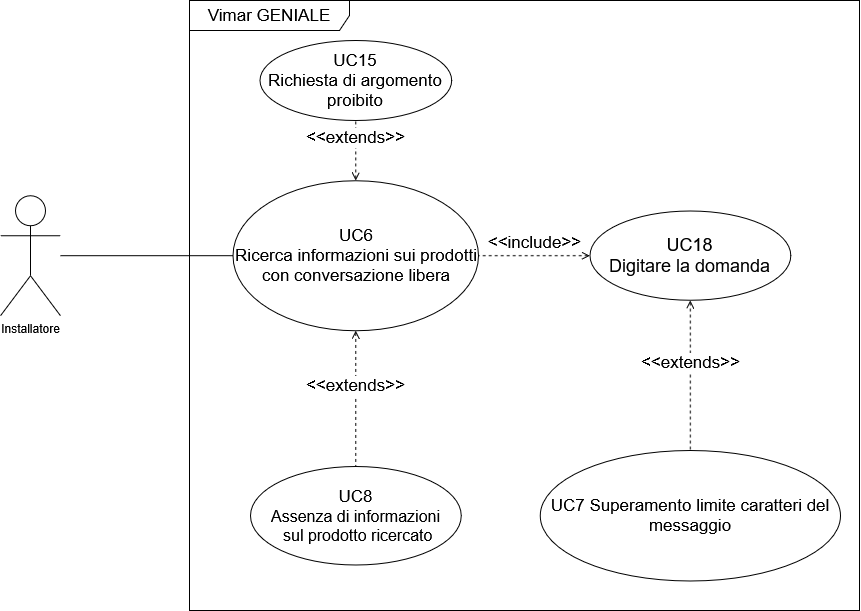
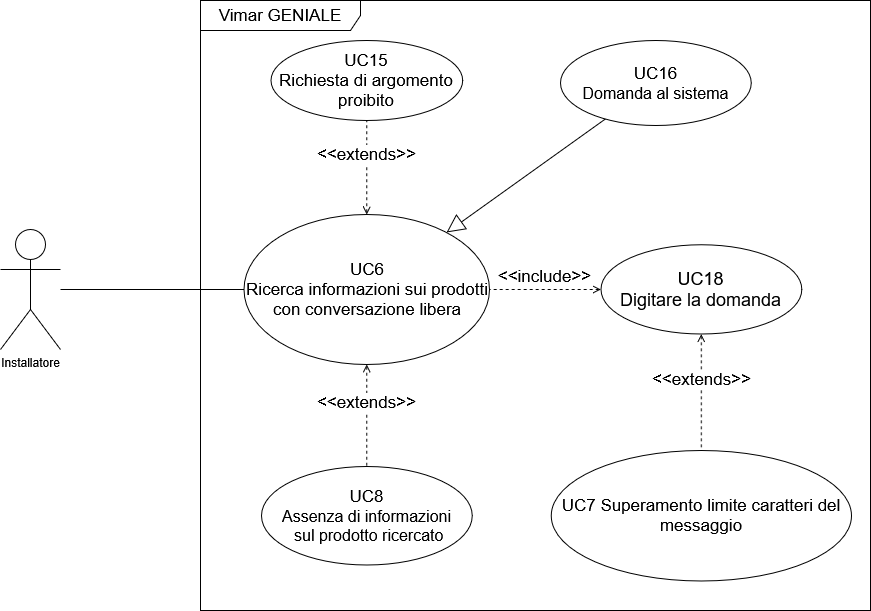
Aggiornata AdR

diff --git a/src/2 - RTB/Analisi_dei_Requisiti/contents/requisiti/requisiti_di_funzionalita.tex b/src/2 - RTB/Analisi_dei_Requisiti/contents/requisiti/requisiti_di_funzionalita.tex
@@ -4,9 +4,9 @@
         \hline
         \textbf{ID requisito} & \textbf{Descrizione} & \textbf{Importanza} & \textbf{Fonti}  \\
         \hline
-        RF.O.001 & Il \textit{sistema}\textsubscript{G} deve permettere all'installatore di effettuare ricerche testuali e ricevere informazioni dettagliate sui prodotti \textit{Vimar}\textsubscript{G}. & Obbligatorio & Capitolato \\
+        RF.O.001 & Il \textit{sistema}\textsubscript{G} deve permettere all'installatore di effettuare ricerche testuali e ricevere informazioni dettagliate sui prodotti \textit{Vimar}\textsubscript{G}. & Obbligatorio & UC6, UC16 \\
         \hline
-        RF.O.002 & Il \textit{sistema}\textsubscript{G} deve prevedere un \textit{sistema}\textsubscript{G} di autenticazione tramite \textit{password}\textsubscript{G} per l'accesso alla \textit{dashboard}\textsubscript{G} per amministratori. & Obbligatorio & UC12 \\
+        RF.O.002 & Il \textit{sistema}\textsubscript{G} deve prevedere l'autenticazione tramite \textit{password}\textsubscript{G} per l'accesso alla \textit{dashboard}\textsubscript{G} per amministratori. & Obbligatorio & UC12 \\
         \hline
         RF.O.003 & Il \textit{cruscotto informativo}\textsubscript{G} deve includere una sezione per la visualizzazione di statistiche di utilizzo. & Obbligatorio & UC14 \\
         \hline
@@ -17,7 +17,7 @@
 \centering
     \begin{tabular}{|C{2.7cm}|L{7.2cm}|C{2.7cm}|C{2cm}|}
         \hline
-        RF.O.004 & Il \textit{sistema}\textsubscript{G} deve permettere agli utenti di fornire un \textit{feedback}\textsubscript{G} positivo o negativo dopo ogni risposta ricevuta. & Obbligatorio & UC14 \\
+        RF.O.004 & Il \textit{sistema}\textsubscript{G} deve permettere agli utenti di fornire un \textit{feedback}\textsubscript{G} positivo o negativo dopo ogni risposta ricevuta. & Obbligatorio & UC11 \\
         \hline
         RF.O.005 & Il \textit{sistema}\textsubscript{G} deve essere in grado di identificare e bloccare le richieste che riguardano argomenti non pertinenti \textit{AI}\textsubscript{G} prodotti \textit{VIMAR}\textsubscript{G}. & Obbligatorio & UC15 \\
         \hline
@@ -26,31 +26,28 @@
         RF.P.007 & Il \textit{sistema}\textsubscript{G} deve fornire un'interfaccia con menu e sottomenù per costruire richieste specifiche in conversazioni guidate. & Opzionale & Capitolato\\
         \hline
         RF.D.008 & Il componente di interrogazione deve prevedere un controllo sull’\textit{output}\textsubscript{G}
-        per verificare che il contenuto non vada in conflitto con argomenti proibiti. & Desiderabile & Capitolato \\
+        per verificare che il contenuto non vada in conflitto con argomenti proibiti. & Desiderabile & UC15 \\
         \hline
-        RF.O.009 & L’utente deve poter fare richieste testuali limitate a un certo numero di caratteri. & Obbligatorio & Capitolato \\
+        RF.O.009 & L’utente deve poter fare richieste testuali limitate a un certo numero di caratteri. & Obbligatorio & UC7 \\
         \hline
         RF.O.010 & L’utente deve poter visualizzare uno storico dei messaggi nella stessa
-        conversazione. & Obbligatorio & Capitolato \\
+        conversazione. & Obbligatorio & UC9 \\
         \hline
         RF.D.011 & L’utente può fare richieste in più lingue.
          & Desiderabile & Capitolato \\
          \hline
-         RF.O.012 & Le conversazioni avute possono essere salvate al termine della \textit{sessione}\textsubscript{G}. & Obbligatorio & Capitolato \\
+         RF.O.012 & Le conversazioni avute possono essere salvate al termine della \textit{sessione}\textsubscript{G}. & Obbligatorio & UC3 \\
         \hline
-        RF.O.013 & Le conversazioni devono poter essere cancellate. & Obbligatorio & Capitolato \\
+        RF.O.013 & Le conversazioni devono poter essere cancellate. & Obbligatorio & UC5 \\
         \hline
         RF.O.014 & Ogni utente dovrà avere un limite massimo di conversazioni.
-         & Obbligatorio & Capitolato \\
+         & Obbligatorio & UC2 \\
         \hline
         RF.P.015 & L'\textit{amministratore}\textsubscript{G} deve poter visualizzare nel \textit{cruscotto informativo}\textsubscript{G} il numero totale di richieste effettuate con \textit{conversazione libera}\textsubscript{G} o guidata.
-         & Opzionale & Capitolato \\
+         & Opzionale & UC14.1, UC14.2 \\
         \hline
-        RF.P.016 & L'\textit{amministratore}\textsubscript{G} deve poter visualizzare nel \textit{cruscotto informativo}\textsubscript{G} le statistiche sul numero di termini usati nelle richieste.
-         & Opzionale & Capitolato \\
-        \hline
-        RF.P.017 & L'\textit{amministratore}\textsubscript{G} deve poter visualizzare nel \textit{cruscotto informativo}\textsubscript{G} le statistiche sulle parole più usate nelle richieste.
-         & Opzionale & Capitolato \\
+        RF.P.016 & L'\textit{amministratore}\textsubscript{G} deve poter visualizzare nel \textit{cruscotto informativo}\textsubscript{G} la classifica sul numero di termini usati maggiormente nelle richieste.
+         & Opzionale & UC14.3 \\
         \hline
     \end{tabular}
     \caption{Requisiti di funzionalità  (2\textsuperscript{a} parte)}
@@ -59,42 +56,42 @@
 \centering
     \begin{tabular}{|C{2.7cm}|L{7.2cm}|C{2.7cm}|C{2cm}|}
         \hline
-        RF.P.018 & L'\textit{amministratore}\textsubscript{G} deve poter visualizzare nel \textit{cruscotto informativo}\textsubscript{G} il grafico con l'andamento giornaliero dell’utilizzo dell’applicativo.
+        RF.P.017 & L'\textit{amministratore}\textsubscript{G} deve poter visualizzare nel \textit{cruscotto informativo}\textsubscript{G} il grafico con l'andamento giornaliero dell’utilizzo dell’applicativo.
          & Opzionale & Capitolato \\
         \hline
-        RF.D.019 & L'\textit{amministratore}\textsubscript{G} deve poter visualizzare nel \textit{cruscotto informativo}\textsubscript{G} il numero di risposte positive o negative ricevute dal \textit{sistema}\textsubscript{G} di \textit{feedback}\textsubscript{G}.
-         & Desiderabile & Capitolato \\
+        RF.D.018 & L'\textit{amministratore}\textsubscript{G} deve poter visualizzare nel \textit{cruscotto informativo}\textsubscript{G} il numero di risposte positive o negative ricevute dal \textit{sistema}\textsubscript{G} di \textit{feedback}\textsubscript{G}.
+         & Desiderabile & UC14.4, UC14.5 \\
         \hline
-        RF.O.020 &  L’applicativo deve prevedere un \textit{sistema}\textsubscript{G} di estrazione e raccolta delle informazioni dal sito web dell'azienda.
+        RF.O.019 &  L’applicativo deve prevedere un \textit{sistema}\textsubscript{G} di estrazione e raccolta delle informazioni dal sito web dell'azienda.
          & Obbligatorio & Capitolato \\
         \hline
-         RF.O.021 & Il \textit{sistema}\textsubscript{G} deve essere in grado di navigare un elenco di prodotti, estrarre le informazioni utili e immagazzinare le informazioni correlandole in modo opportuno.
+         RF.O.020 & Il \textit{sistema}\textsubscript{G} deve essere in grado di navigare un elenco di prodotti, estrarre le informazioni utili e immagazzinare le informazioni correlandole in modo opportuno.
          & Obbligatorio & Capitolato \\
         \hline
-         RF.D.022 & L'utente deve poter scaricare i file di istruzioni dei prodotti in formato PDF.
-         & Desiderabile & Capitolato \\
+         RF.D.021 & L'utente deve poter scaricare i file di istruzioni dei prodotti in formato PDF.
+         & Desiderabile & UC17 \\
         \hline
-         RF.O.023 & Il \textit{sistema}\textsubscript{G} deve essere in grado di ricavare le informazioni utili dai PDF ed estrarre le immagini degli schemi elettrici.
+         RF.O.022 & Il \textit{sistema}\textsubscript{G} deve essere in grado di ricavare le informazioni utili dai PDF ed estrarre le immagini degli schemi elettrici.
+         & Obbligatorio & UC17 \\
+        \hline
+         RF.O.023 & Il \textit{sistema}\textsubscript{G} deve impiegare un \textit{database}\textsubscript{G} per collezionare le informazioni relative ai prodotti.
+         & Obbligatorio & UC16 \\
+        \hline
+         RF.O.024 & Il \textit{sistema}\textsubscript{G} di estrazione e raccolta deve essere realizzato sotto-forma di \textit{pipeline}\textsubscript{G} e automatizzato.
          & Obbligatorio & Capitolato \\
         \hline
-         RF.O.024 & Il \textit{sistema}\textsubscript{G} deve impiegare un \textit{database}\textsubscript{G} per collezionare le informazioni relative \textit{AI}\textsubscript{G} prodotti.
-         & Obbligatorio & Capitolato \\
-        \hline
-         RF.O.025 & Il \textit{sistema}\textsubscript{G} di estrazione e raccolta deve essere realizzato sotto-forma di \textit{pipeline}\textsubscript{G} e automatizzato.
-         & Obbligatorio & Capitolato \\
-        \hline
-         RF.O.026 & L’applicativo deve prevedere un \textit{sistema}\textsubscript{G} di indicizzazione delle informazioni a partire dal
+         RF.O.025 & L’applicativo deve prevedere un \textit{sistema}\textsubscript{G} di indicizzazione delle informazioni a partire dal
         \textit{database}\textsubscript{G} in cui sono stati salvati i dati precedentemente estratti dal sito web.
          & Obbligatorio & Capitolato \\
         \hline
-        RF.O.027 & Il componente di interrogazione deve fornire in \textit{output}\textsubscript{G} la risposta del modello \textit{AI}\textsubscript{G} (\textit{LLM}\textsubscript{G}).
-         & Obbligatorio & Capitolato \\
+        RF.O.026 & Il componente di interrogazione deve fornire in \textit{output}\textsubscript{G} la risposta del modello \textit{AI}\textsubscript{G} (\textit{LLM}\textsubscript{G}).
+         & Obbligatorio & UC6, UC16 \\
         \hline
-        RF.O.028 & Il modello \textit{AI}\textsubscript{G} (\textit{LLM}\textsubscript{G}) deve essere in grado di rispondere a domande sui prodotti appartenenti agli impianti Smart.
-         & Obbligatorio & Capitolato \\
+        RF.O.027 & Il modello \textit{AI}\textsubscript{G} (\textit{LLM}\textsubscript{G}) deve essere in grado di rispondere a domande sui prodotti appartenenti agli impianti Smart.
+         & Obbligatorio & UC6, UC16 \\
         \hline
-        RF.O.029 & Il modello \textit{AI}\textsubscript{G} (\textit{LLM}\textsubscript{G}) deve essere in grado di rispondere a domande sui prodotti appartenenti agli impianti Domotici.
-         & Obbligatorio & Capitolato \\
+        RF.O.028 & Il modello \textit{AI}\textsubscript{G} (\textit{LLM}\textsubscript{G}) deve essere in grado di rispondere a domande sui prodotti appartenenti agli impianti Domotici.
+         & Obbligatorio & UC6, UC16 \\
         \hline
     \end{tabular}
     \caption{Requisiti di funzionalità (3\textsuperscript{a}  parte)}
@@ -103,55 +100,57 @@
 \centering
     \begin{tabular}{|C{2.7cm}|L{7.2cm}|C{2.7cm}|C{2cm}|}
         \hline
-        RF.D.030 & Il modello \textit{AI}\textsubscript{G} (\textit{LLM}\textsubscript{G}) deve essere in grado di rispondere a domande sui prodotti appartenenti agli impianti Tradizionali.
+        RF.D.029 & Il modello \textit{AI}\textsubscript{G} (\textit{LLM}\textsubscript{G}) deve essere in grado di rispondere a domande sui prodotti appartenenti agli impianti Tradizionali.
+         & Desiderabile & UC6, UC16 \\
+        \hline
+        RF.D.030 & L’utente deve poter visualizzare il numero della pagina del documento relativo alla risposta.
          & Desiderabile & Capitolato \\
         \hline
-        RF.D.031 & L’utente deve poter visualizzare il numero della pagina del documento relativo alla risposta.
-         & Desiderabile & Capitolato \\
-        \hline
-        RF.D.032 & L’utente deve poter visualizzare il nome del documento relativo alla
+        RF.D.031 & L’utente deve poter visualizzare il nome del documento relativo alla
         risposta.
          & Desiderabile & Capitolato \\
         \hline
-        RF.O.033 & L’utente deve poter confermare l'eliminazione di una conversazione con il \textit{chatbot}\textsubscript{G}.
-         & Obbligatorio & Interno \\
+        RF.O.032 & L’utente deve poter confermare l'eliminazione di una conversazione con il \textit{chatbot}\textsubscript{G}.
+         & Obbligatorio & UC5 \\
         \hline
-        RF.O.034 & L’utente deve poter visualizzare una lista delle
+        RF.O.033 & L’utente deve poter visualizzare una lista delle
         sessioni di conversazione attive col \textit{chatbot}\textsubscript{G}.
-         & Obbligatorio & Interno \\
+         & Obbligatorio & UC1 \\
         \hline
-        RF.O.035 & L’utente deve poter creare una nuova \textit{sessione}\textsubscript{G} di conversazione col \textit{chatbot}\textsubscript{G}.
-         & Obbligatorio & Interno \\
+        RF.O.034 & L’utente deve poter creare una nuova \textit{sessione}\textsubscript{G} di conversazione col \textit{chatbot}\textsubscript{G}.
+         & Obbligatorio & UC1 \\
         \hline
-        RF.O.036 & L’utente deve ricevere una risposta di cortesia quando pone una domanda relativa a dei contenuti proibiti.
-         & Obbligatorio & Interno \\
+        RF.O.035 & L’utente deve ricevere una risposta di cortesia quando pone una domanda relativa a dei contenuti proibiti.
+         & Obbligatorio & UC15 \\
         \hline
-        RF.O.037 & L’utente deve ricevere una risposta di cortesia quando pone una domanda relativa a dei contenuti non presenti.
-         & Obbligatorio & Interno \\
+        RF.O.036 & L’utente deve ricevere una risposta di cortesia quando pone una domanda relativa a dei contenuti non presenti.
+         & Obbligatorio & UC8 \\
         \hline
-        RF.O.038 & L’utente deve poter digitare la domanda da porgere al \textit{chatbot}\textsubscript{G} tramite tastiera.
-         & Obbligatorio & Interno \\
+        RF.O.037 & L’utente deve poter digitare la domanda da porgere al \textit{chatbot}\textsubscript{G} tramite tastiera.
+         & Obbligatorio & UC18 \\
         \hline
-        RF.O.039 & L’utente deve poter inviare le domande da porgere al \textit{chatbot}\textsubscript{G}.
-         & Obbligatorio & Interno \\
+        RF.O.038 & L’utente deve poter inviare le domande da porgere al \textit{chatbot}\textsubscript{G}.
+         & Obbligatorio & UC16 \\
         \hline
-        RF.P.040 & L’utente deve poter ricercare una conversazione salvata in precedenza.
-         & Opzionale & Interno \\
+        RF.P.039 & L’utente deve poter ricercare una conversazione salvata in precedenza.
+         & Opzionale & UC- \\
         \hline
-        RF.P.041 & L’utente può visualizzare la data di invio di un messaggio.
-         & Opzionale & Interno \\
+        RF.P.040 & L’utente può visualizzare la data di invio di un messaggio.
+         & Opzionale & UC- \\
         \hline
-        RF.P.042 & L’utente può visualizzare l'ora di invio di un messaggio.
-         & Opzionale & Interno \\
+        RF.P.041 & L’utente può visualizzare l'ora di invio di un messaggio.
+         & Opzionale & UC- \\
         \hline
-        RF.P.043 & L’utente deve poter visualizzare il contenuto del documento di interesse.
-         & Opzionale & Interno \\
+        RF.P.042 & L’utente deve poter visualizzare il contenuto del documento di interesse.
+         & Opzionale & UC- \\
         \hline
-        RF.P.044 & L'Admin può azzerare il conto dei \textit{feedback}\textsubscript{G} positivi ricevuti.
-         & Opzionale & Interno \\
+        RF.P.043 & L'Admin può azzerare il conto dei \textit{feedback}\textsubscript{G} positivi ricevuti.
+         & Opzionale & UC- \\
         \hline
-        RF.P.045 & L'Admin può azzerare il conto dei \textit{feedback}\textsubscript{G} negativi ricevuti.
-         & Opzionale & Interno \\
+        RF.P.044 & L'Admin può azzerare il conto dei \textit{feedback}\textsubscript{G} negativi ricevuti.
+         & Opzionale & UC- \\
+        \hline
+        RF.D.045 & L'interfaccia utente del \textit{sistema}\textsubscript{G} deve essere responsive, adattandosi a diversi dispositivi. & Desiderabile & Capitolato \\
         \hline
     \end{tabular}
     \caption{Requisiti di funzionalità (4\textsuperscript{a}  parte)}

diff --git a/src/2 - RTB/Analisi_dei_Requisiti/contents/casi_duso/elenco.tex b/src/2 - RTB/Analisi_dei_Requisiti/contents/casi_duso/elenco.tex
@@ -192,11 +192,6 @@
     \item L’installatore visualizza le informazioni sull’errore che si è verificato.
     \end{enumerate}
 \end{itemize}
-\begin{figure}[H]
-\centering
-\includegraphics[width=0.8\textwidth]{contents/casi_duso/png/UC8.png}
-\caption{UC8 - Assenza di informazioni sul prodotto ricercato}
-\end{figure}
 
 
 \uc{Visualizzazione storico dei messaggi}{visualizzazione_storico_messaggi}
@@ -558,7 +553,7 @@
 % \label{fig:UC1a}
 \end{figure}
 
-\uc{Domanda al sisitema}{domanda}
+\uc{Domanda al sistema\textsubscript{G}}{domanda}
 \begin{itemize}
     \item \textbf{Attori coinvolti}: Installatore;
     \item \textbf{Descrizione}: L’installatore inserisce una domanda;
@@ -577,7 +572,6 @@
     \item Il \textit{sistema}\textsubscript{G} elabora la richiesta e fornisce una risposta;
     \item L’installatore visualizza le informazioni restituite;
     \end{enumerate}
-    \item \textbf{Estensioni}: UC17 - Richiesta di uno schema o immagine.
 \end{itemize}
 \begin{figure}[H]
 \centering
@@ -605,14 +599,9 @@
     \item Il \textit{sistema}\textsubscript{G} elabora la richiesta e fornisce una risposta inserendo uno schema o di un'immagine di cui la risposta ha bisogno per essere esaustiva;
     \item L’installatore visualizza le informazioni restituite;
     \end{enumerate}
-    \item \textbf{Inclusioni}: UC16 - Domanda al \textit{sistema}\textsubscript{G}.
+    \item \textbf{Generalizzazioni}: UC6 - Ricerca informazioni sui prodotti con \textit{conversazione libera}\textsubscript{G}.  
 \end{itemize}
-\begin{figure}[H]
-\centering
-\includegraphics[width=0.8\textwidth]{contents/casi_duso/png/UC17.png}
-\caption{UC17 - Richiesta di uno schema o immagine}
-% \label{fig:UC1a}
-\end{figure}
+
 
 
 \uc{ Digitazione della Domanda}{digita_domanda}
@@ -630,9 +619,6 @@
     \item Inserisce una domanda;
     \item Il \textit{sistema}\textsubscript{G} riceve la domanda ed inizia ad elaborarla;
     \end{enumerate}
-    \item \textbf{Estensioni}: 
-        \begin{itemize}
-            \item UC7 - Superamento limite caratteri del messaggio
-        \end{itemize}
+    \item \textbf{Estensioni}: UC7 - Superamento limite caratteri del messaggio.
 \end{itemize}
 

diff --git a/src/2 - RTB/Analisi_dei_Requisiti/contents/tracciamento_requisiti.tex b/src/2 - RTB/Analisi_dei_Requisiti/contents/tracciamento_requisiti.tex
@@ -7,20 +7,7 @@
          \textbf{ID requisito}   
           \\
           \hline
-          \textit{Capitolato}\textsubscript{G} & RF.O.001  \newline RF.D.006 \newline   
-                        RF.P.007 \newline  RF.D.008 \newline
-                        RF.O.009  \newline RF.O.010 \newline
-                        RF.D.011   \newline      RF.O.012 \newline
-                        RF.O.013  \newline       RF.O.014 \newline
-                        RF.P.015  \newline        RF.P.016 \newline
-                        RF.P.017  \newline        RF.P.018 \newline
-                        RF.D.019   \newline      RF.O.020 \newline
-RF.O.021 \newline RF.D.022 \newline RF.D.023  \newline  RF.O.024\newline RF.O.025 \newline
-RF.O.026 \newline RF.O.027  \newline RF.O.028  \newline  RF.O.029 \newline RF.D.030 \newline RF.D.031 \newline RF.D.032 \newline
-RQ.D.001 \newline RQ.O.002 \newline 
-RV.O.001 \newline RV.O.002  \newline RV.D.003   \newline  RV.O.004   \newline RV.O.005 \newline
-RV.O.006 \newline RV.O.007 \newline RV.O.008  \newline  RV.O.009\newline RV.O.010 \newline
-RV.O.011 \\
+          \textit{Capitolato}\textsubscript{G} & RF.O.001 \newline RF.O.002\\
 \hline
     \end{tabular}
     \caption{Suddivisione dei requisiti per fonte (1\textsuperscript{a} parte)}
@@ -32,8 +19,8 @@ RV.O.011 \\
           Interno & 
           RF.O.033  \newline RF.O.034  \newline RF.O.035  \newline  RF.O.036\newline RF.O.037 \newline
           RF.O.038  \newline RF.O.039  \newline RF.P.040  \newline  RF.P.041 \newline RF.P.042 \newline
-          RF.P.043  \newline RF.P.044 \newline RF.P.045  \newline  RQ.O.003  \newline RQ.O.004  \newline
-          RQ.O.005  \newline RQ.O.006  \newline RV.O.012  \newline  RV.O.013   \newline RV.O.014   \newline
+          RF.P.043  \newline RF.P.044 \newline RF.P.045  \newline  RQ.O.001  \newline RQ.O.002  \newline
+          RQ.O.003 \newline RQ.O.004  \newline RV.O.012  \newline  RV.O.013   \newline RV.O.014   \newline
           RV.O.015   \newline RV.O.016   \\
           \hline       
           UC12 & RF.O.002 \\

diff --git a/src/2 - RTB/Analisi_dei_Requisiti/contents/requisiti/requisiti_di_qualita.tex b/src/2 - RTB/Analisi_dei_Requisiti/contents/requisiti/requisiti_di_qualita.tex
@@ -4,21 +4,17 @@
         \hline
         \textbf{ID requisito} & \textbf{Descrizione} & \textbf{Importanza} & \textbf{Fonti}  \\
         \hline
-       
-        \hline
-        RQ.D.001 & L'interfaccia utente del \textit{sistema}\textsubscript{G} potrebbe essere responsive, adattandosi a diversi dispositivi. & Desiderabile & Capitolato \\
-        \hline
-        RQ.O.002 & Il \textit{sistema}\textsubscript{G} deve essere progettato per essere facilmente eseguibile su altri dispositivi utilizzando la tecnologia dei \textit{container}\textsubscript{G}. & Obbligatorio & Capitolato \\
         
         \hline
-        RQ.O.003 & \`E necessario fornire un documento che descriva le attività di bug\textsubscript{G} reporting effettuate. & Obbligatorio & Interno \\
+        RQ.O.001 & \`E necessario fornire un documento che descriva le attività di bug\textsubscript{G} reporting effettuate. & Obbligatorio & Interno \\
         \hline
-        RQ.O.004 & Il progetto deve essere svolto seguendo le regole contenute nel documento Norme di Progetto. & Obbligatorio & Interno \\
+        RQ.O.002 & Il progetto deve essere svolto seguendo le regole contenute nel documento Norme di Progetto. & Obbligatorio & Interno \\
         \hline
-        RQ.O.005 & \`E necessario fornire al proponente il codice sorgente dell'applicativo in un
-        \textit{repository}\textsubscript{G}\textsubscript{G} \textit{GitHub}\textsubscript{G}. & Obbligatorio & Interno \\
+        RQ.O.003 & \`E necessario fornire al proponente il codice sorgente dell'applicativo in un
+        \textit{repository}\textsubscript{G}
+        \textit{GitHub}\textsubscript{G}. & Obbligatorio & Interno \\
         \hline
-        RQ.O.006 & \`E necessario fornire il Manuale Utente dell'applicativo. & Obbligatorio & Interno \\
+        RQ.O.004 & \`E necessario fornire il Manuale Utente dell'applicativo. & Obbligatorio & Interno \\
         \hline
     \end{tabular}
     \caption{Requisiti di qualità}
